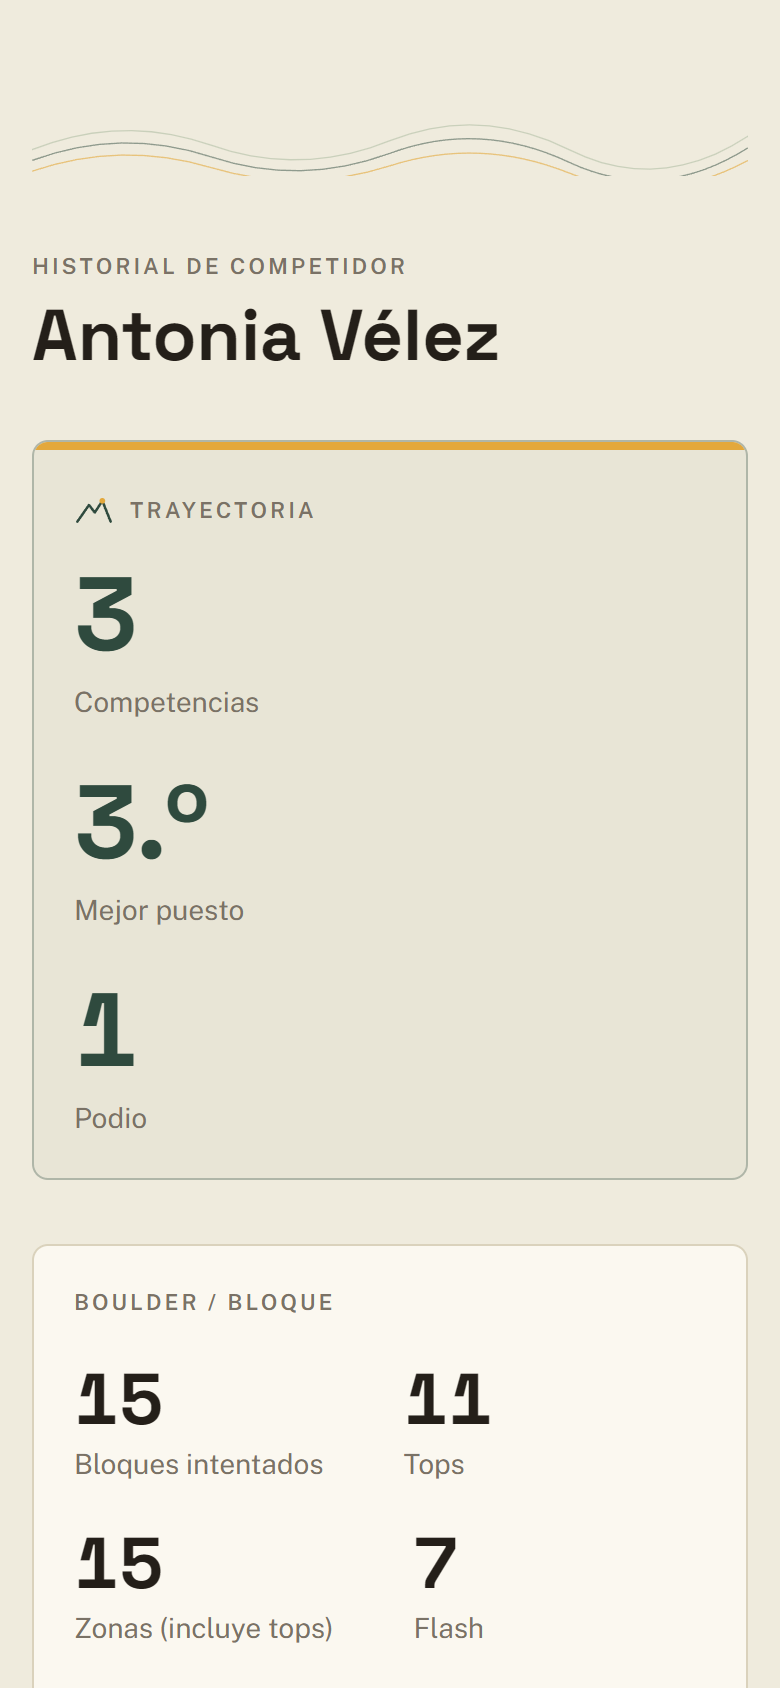
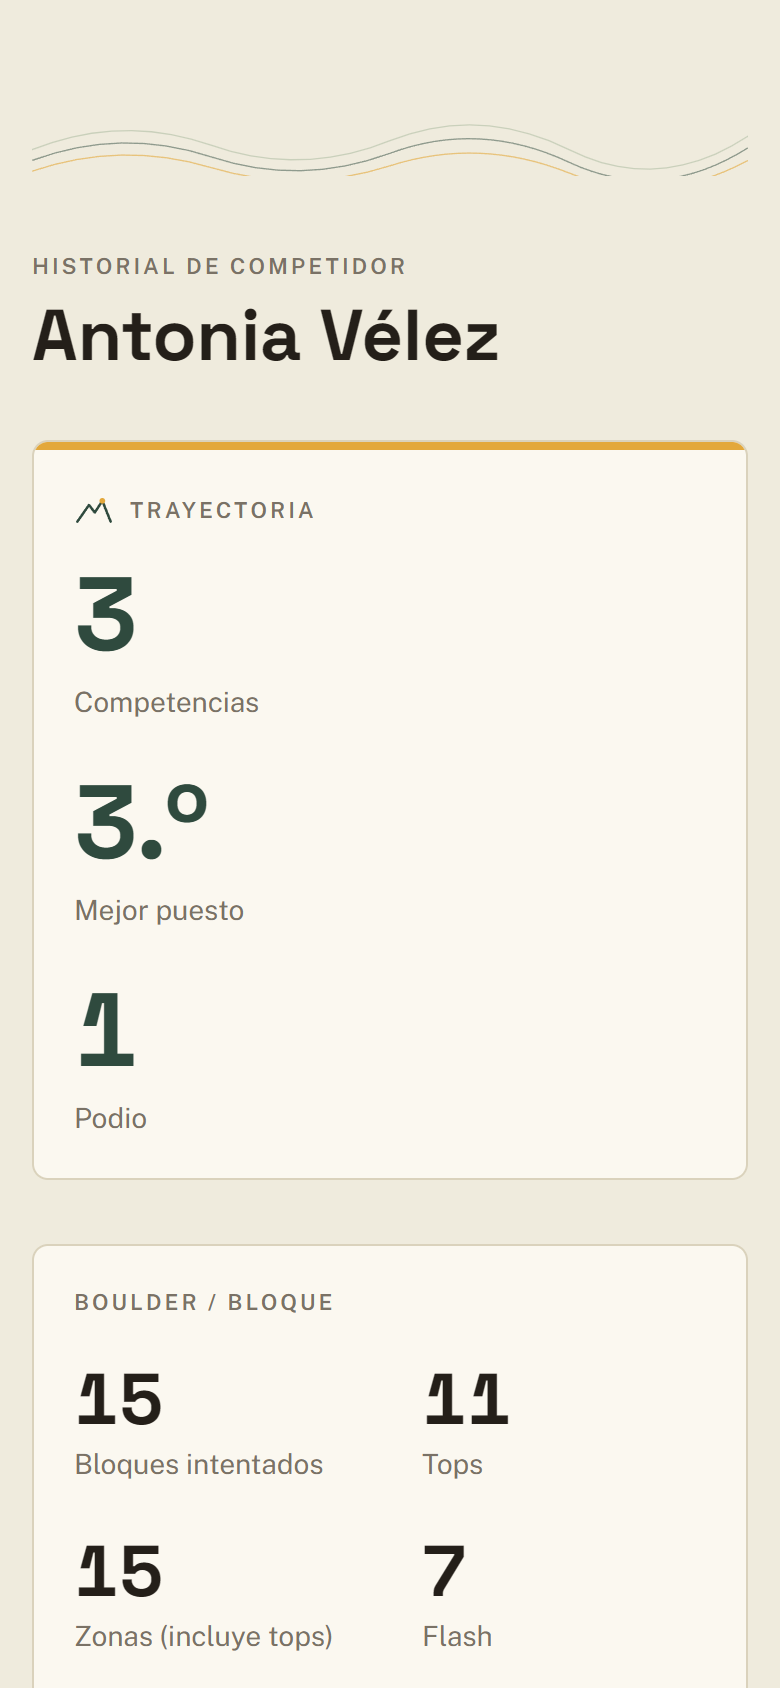
fix(web): stop the career card blending into the page, and spread the totals
The card carried a pine tint over the page's stone background and the two
were close enough that it read as part of the page rather than as the piece
being highlighted. The gold rule already does that job, so the background
goes back to the bone every other card uses — the contrast now comes from
the card being lighter than the page, which is how the rest of them work.

The discipline totals had the same flex-wrap packing the career figures had
before: four numbers bunched at the left with half the card empty. Same grid
treatment, two columns on a phone and four when there is width. Lead gets it
too, at three columns, so it lands right the first time a real lead event
exists.

diff --git a/apps/web/app/(public)/competidor/[athleteId]/page.tsx b/apps/web/app/(public)/competidor/[athleteId]/page.tsx
@@ -275,7 +275,10 @@ function BoulderTotals({ totals }: { totals: DisciplineTotals }) {
   return (
     <section className={`${cardClass} flex flex-col gap-5`}>
       <span className={eyebrowClass}>Boulder / Bloque</span>
-      <div className="flex flex-wrap gap-x-10 gap-y-5">
+      {/* Grid y no flex-wrap: con gaps fijos las cuatro cifras se empaquetaban a
+          la izquierda y dejaban el resto del ancho vacío. Dos columnas en
+          teléfono, cuatro cuando hay ancho. */}
+      <div className="grid grid-cols-2 gap-x-8 gap-y-6 sm:grid-cols-4">
         <Figure value={String(totals.problems)} label="Bloques intentados" />
         <Figure value={String(totals.tops)} label="Tops" />
         <Figure value={String(totals.zones)} label="Zonas (incluye tops)" />
@@ -301,7 +304,9 @@ function LeadTotals({ totals }: { totals: DisciplineTotals }) {
   return (
     <section className={`${cardClass} flex flex-col gap-5`}>
       <span className={eyebrowClass}>Lead / Dificultad</span>
-      <div className="flex flex-wrap gap-x-10 gap-y-5">
+      {/* Mismo grid que Boulder. Son dos o tres cifras según haya altura
+          máxima, así que tres columnas en vez de cuatro. */}
+      <div className="grid grid-cols-2 gap-x-8 gap-y-6 sm:grid-cols-3">
         <Figure value={String(totals.problems)} label="Rutas intentadas" />
         <Figure value={String(totals.tops)} label="Rutas completadas" />
         {totals.maxHeight !== null && (
@@ -352,11 +357,11 @@ export default async function CompetidorPage({ params }: { params: Promise<{ ath
         <h1 className="mt-1 font-display text-4xl font-bold">{profile.fullName}</h1>
       </header>
 
-      {/* La tarjeta destacada de la página: filete de oro arriba y fondo con un
-          tinte de pine para que no se lea como una más de la lista. Grid y no
-          flex-wrap — con tres cifras, `flex-wrap` las amontonaba a la izquierda
-          y dejaba medio ancho vacío. */}
-      <section className={`${cardClass} relative overflow-hidden border-pine/30 bg-pine/[0.04]`}>
+      {/* La tarjeta destacada de la página. El filete de oro es lo que la
+          distingue; el fondo se queda en el hueso de `cardClass` como las demás.
+          Un tinte de pine encima del stone del `body` quedaba casi del color de
+          la página y la tarjeta se camuflaba en vez de resaltar. */}
+      <section className={`${cardClass} relative overflow-hidden`}>
         <span className="absolute inset-x-0 top-0 h-1 bg-gold" aria-hidden />
         <div className="mt-1 flex items-center gap-2">
           <PeakIcon />
